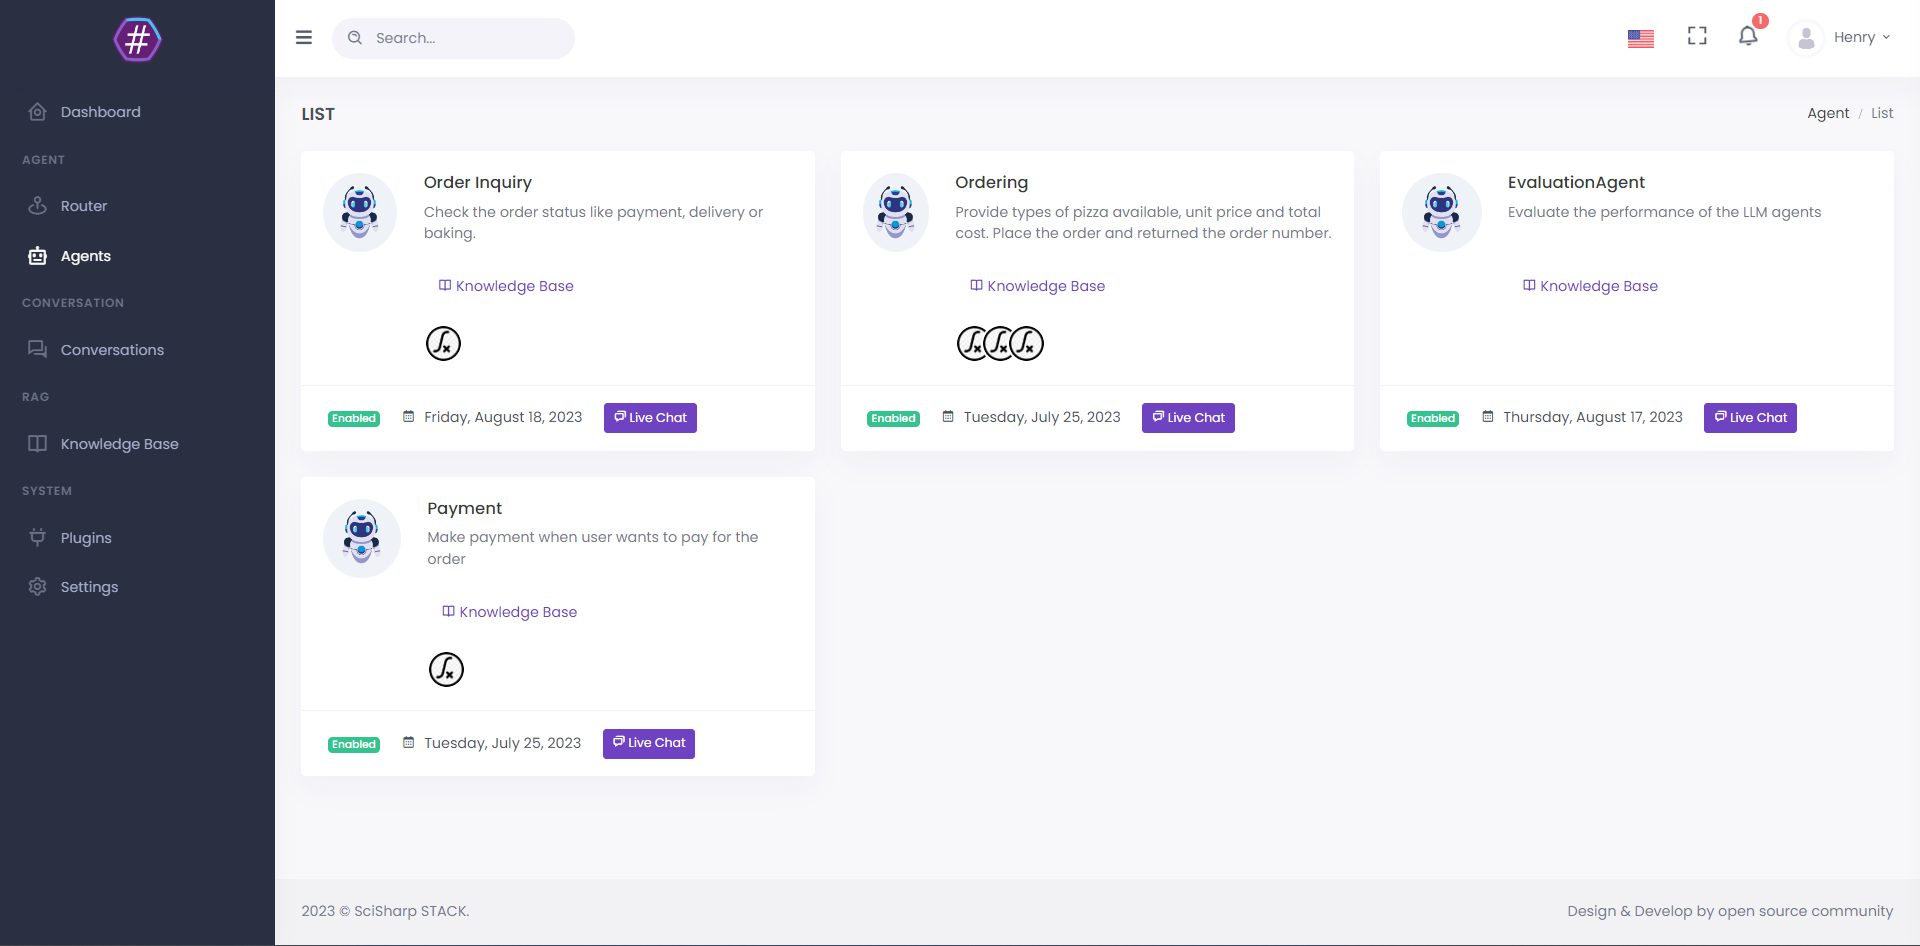
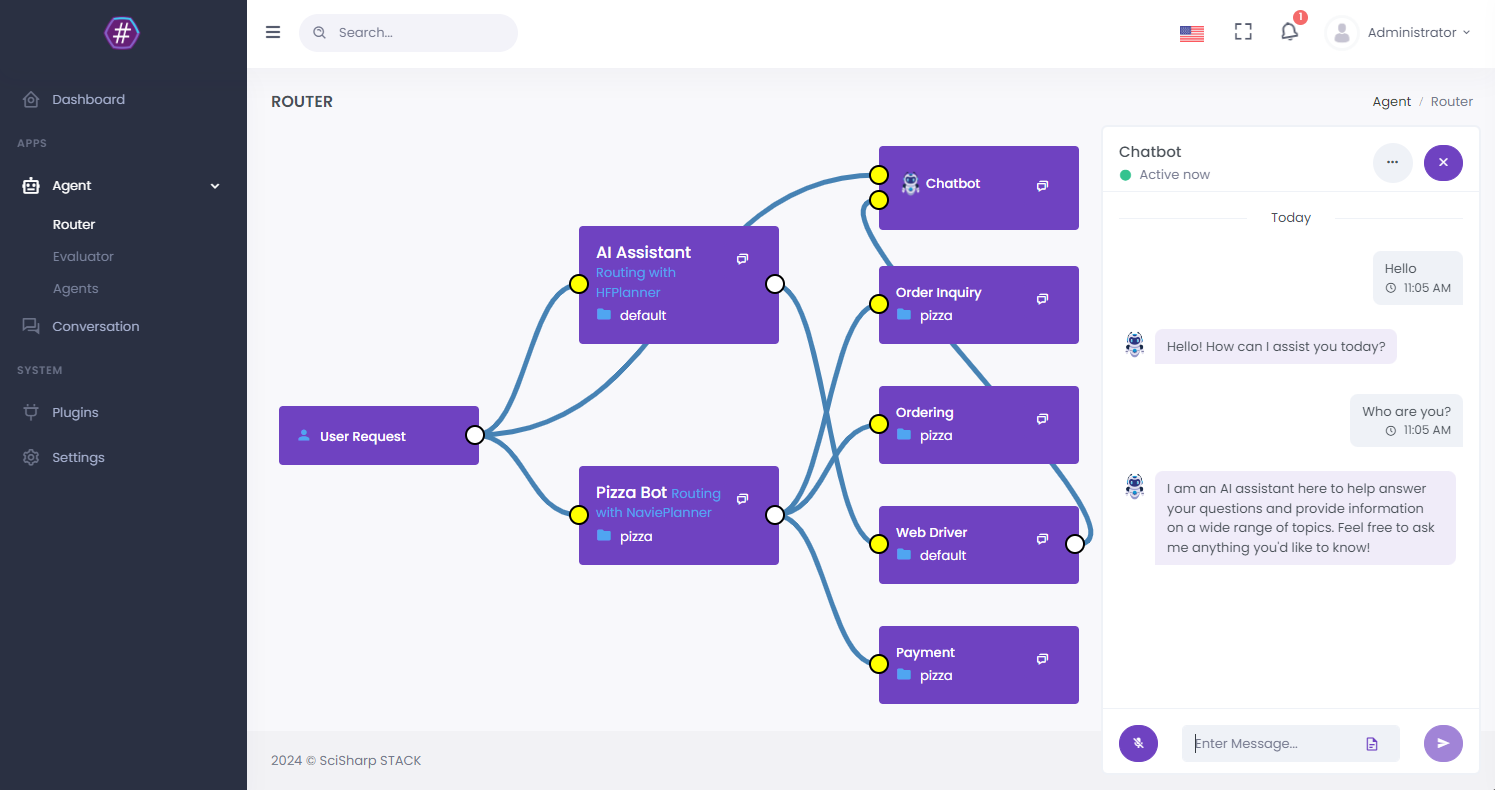
Add pizza bot router.

diff --git a/src/Infrastructure/BotSharp.OpenAPI/Controllers/AgentController.cs b/src/Infrastructure/BotSharp.OpenAPI/Controllers/AgentController.cs
@@ -25,23 +25,37 @@ public class AgentController : ControllerBase
     [HttpGet("/agent/{id}")]
     public async Task<AgentViewModel> GetAgent([FromRoute] string id)
     {
-        var agent = await _agentService.GetAgent(id);
-        return AgentViewModel.FromAgent(agent);
+        var agents = await GetAgents(new AgentFilter
+        {
+            AgentIds = new List<string> { id }
+        });
+        return agents.Items.First();
     }
-
+             
     [HttpGet("/agents")]
     public async Task<PagedItems<AgentViewModel>> GetAgents([FromQuery] AgentFilter filter)
     {
+        var agentSetting = _services.GetRequiredService<AgentSettings>();
         var pagedAgents = await _agentService.GetAgents(filter);
+
+        // prerender agent
         var items = new List<Agent>();
         foreach (var agent in pagedAgents.Items)
         {
             var renderedAgent = await _agentService.LoadAgent(agent.Id);
             items.Add(renderedAgent);
         }
+
+        // Set IsHost
+        var agents = items.Select(x => AgentViewModel.FromAgent(x)).ToList();
+        foreach(var agent in agents)
+        {
+            agent.IsHost = agentSetting.HostAgentId == agent.Id;
+        }
+
         return new PagedItems<AgentViewModel>
         {
-            Items = items.Select(x => AgentViewModel.FromAgent(x)).ToList(),
+            Items = agents,
             Count = pagedAgents.Count
         };
     }

diff --git a/src/Infrastructure/BotSharp.OpenAPI/Controllers/ConversationController.cs b/src/Infrastructure/BotSharp.OpenAPI/Controllers/ConversationController.cs
@@ -37,6 +37,7 @@ public class ConversationController : ControllerBase
         var conversations = await service.GetConversations(filter);
 
         var userService = _services.GetRequiredService<IUserService>();
+        var agentService = _services.GetRequiredService<IAgentService>();
         var list = conversations.Items
             .Select(x => ConversationViewModel.FromSession(x))
             .ToList();
@@ -45,6 +46,9 @@ public class ConversationController : ControllerBase
         {
             var user = await userService.GetUser(item.User.Id);
             item.User = UserViewModel.FromUser(user);
+
+            var agent = await agentService.GetAgent(item.AgentId);
+            item.AgentName = agent.Name;
         }
 
         return new PagedItems<ConversationViewModel>

diff --git a/src/Infrastructure/BotSharp.Core/Agents/Services/AgentService.GetAgents.cs b/src/Infrastructure/BotSharp.Core/Agents/Services/AgentService.GetAgents.cs
@@ -13,18 +13,10 @@ public partial class AgentService
     {
         var agents = _db.GetAgents(filter);
 
-        // Set IsRouter
         var routeSetting = _services.GetRequiredService<RoutingSettings>();
         foreach (var agent in agents)
         {
             agent.Plugin = GetPlugin(agent.Id);
-        }
-
-        // Set IsHost
-        var agentSetting = _services.GetRequiredService<AgentSettings>();
-        foreach (var agent in agents)
-        {
-            agent.IsHost = agentSetting.HostAgentId == agent.Id;
         }
 
         agents = agents.Where(x => x.Installed).ToList();

diff --git a/src/Infrastructure/BotSharp.OpenAPI/ViewModels/Conversations/ConversationViewModel.cs b/src/Infrastructure/BotSharp.OpenAPI/ViewModels/Conversations/ConversationViewModel.cs
@@ -9,12 +9,12 @@ public class ConversationViewModel
     [JsonPropertyName("agent_id")]
     public string AgentId { get; set; }
 
+    [JsonPropertyName("agent_name")]
+    public string AgentName { get; set; }
+
     public string Title { get; set; } = string.Empty;
 
     public UserViewModel User {  get; set; } = new UserViewModel();
-
-    [JsonPropertyName("unread_msg_count")]
-    public int UnreadMsgCount { get; set; }
 
     public string Event { get; set; }
 

diff --git a/tests/BotSharp.Plugin.PizzaBot/PizzaBotPlugin.cs b/tests/BotSharp.Plugin.PizzaBot/PizzaBotPlugin.cs
@@ -11,6 +11,7 @@ public class PizzaBotPlugin : IBotSharpPlugin
     public string IconUrl => "https://cdn-icons-png.flaticon.com/512/6978/6978255.png";
     public string[] AgentIds => new[] 
     {
+        "8970b1e5-d260-4e2c-90b1-f1415a257c18",
         "b284db86-e9c2-4c25-a59e-4649797dd130",
         "c2b57a74-ae4e-4c81-b3ad-9ac5bff982bd",
         "dfd9b46d-d00c-40af-8a75-3fbdc2b89869",

diff --git a/src/Infrastructure/BotSharp.OpenAPI/ViewModels/Agents/AgentViewModel.cs b/src/Infrastructure/BotSharp.OpenAPI/ViewModels/Agents/AgentViewModel.cs
@@ -62,7 +62,6 @@ public class AgentViewModel
             Responses = agent.Responses,
             Samples = agent.Samples,
             IsPublic= agent.IsPublic,
-            IsHost = agent.IsHost,
             Disabled = agent.Disabled,
             IconUrl = agent.IconUrl,
             Profiles = agent.Profiles ?? new List<string>(),

diff --git a/src/Infrastructure/BotSharp.Abstraction/Agents/Models/Agent.cs b/src/Infrastructure/BotSharp.Abstraction/Agents/Models/Agent.cs
@@ -63,9 +63,6 @@ public class Agent
     public bool IsPublic { get; set; }
 
     [JsonIgnore]
-    public bool IsHost { get; set; }
-
-    [JsonIgnore]
     public PluginDef Plugin {  get; set; }
 
     [JsonIgnore]

diff --git a/README.md b/README.md
@@ -103,6 +103,7 @@ BotSharp uses component design, the kernel is kept to a minimum, and business fu
 
 #### Tools
 - BotSharp.Plugin.RoutingSpeeder
+- BotSharp.Plugin.WebDriver
 - BotSharp.Plugin.PizzaBot
 
 #### UIs
